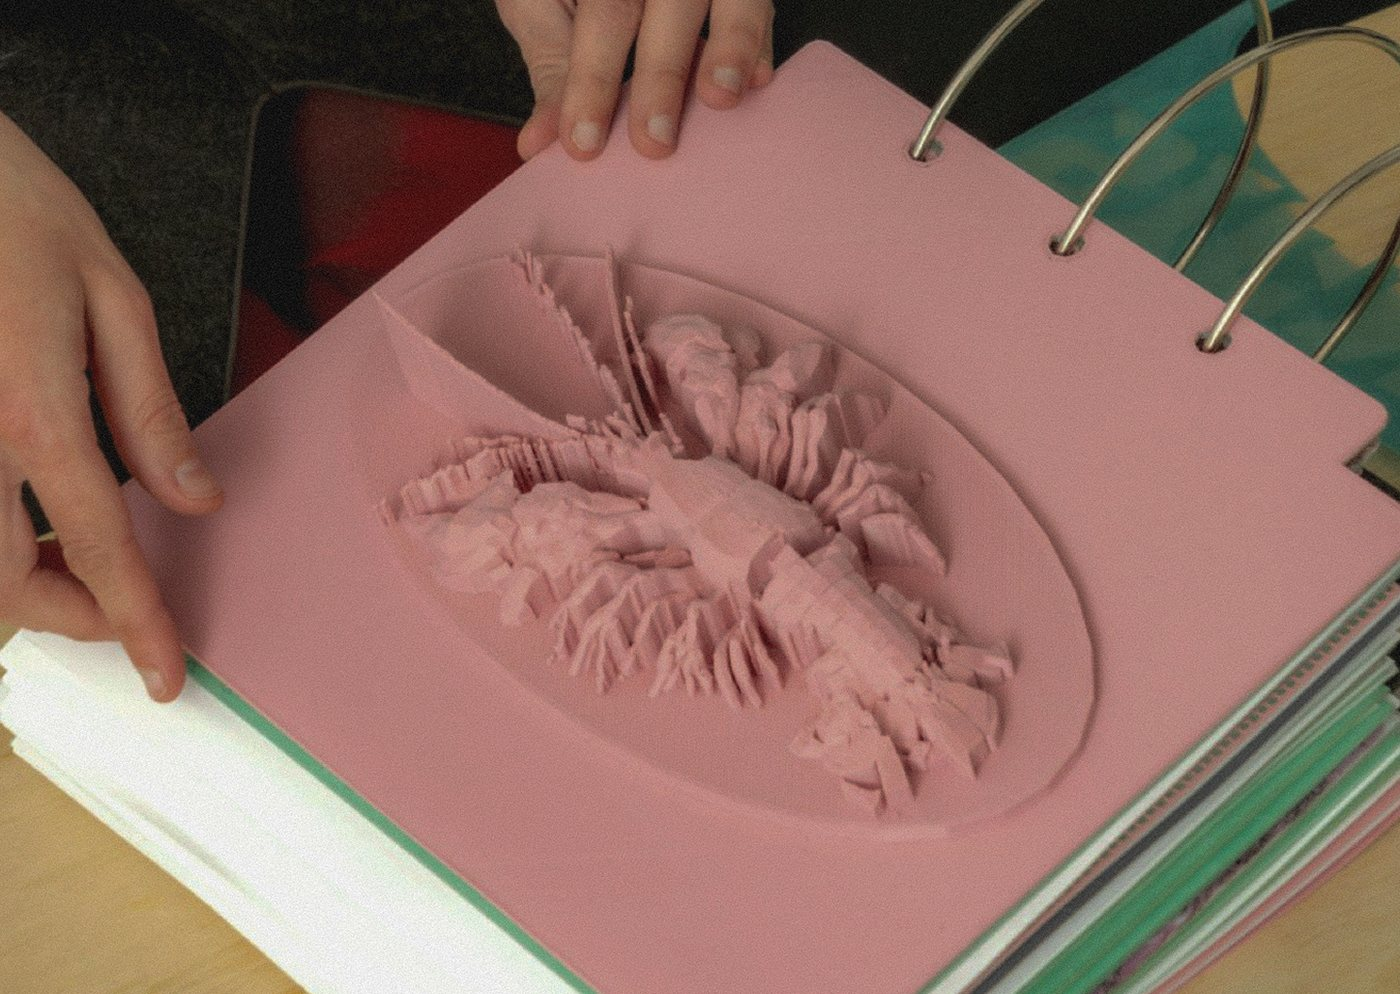
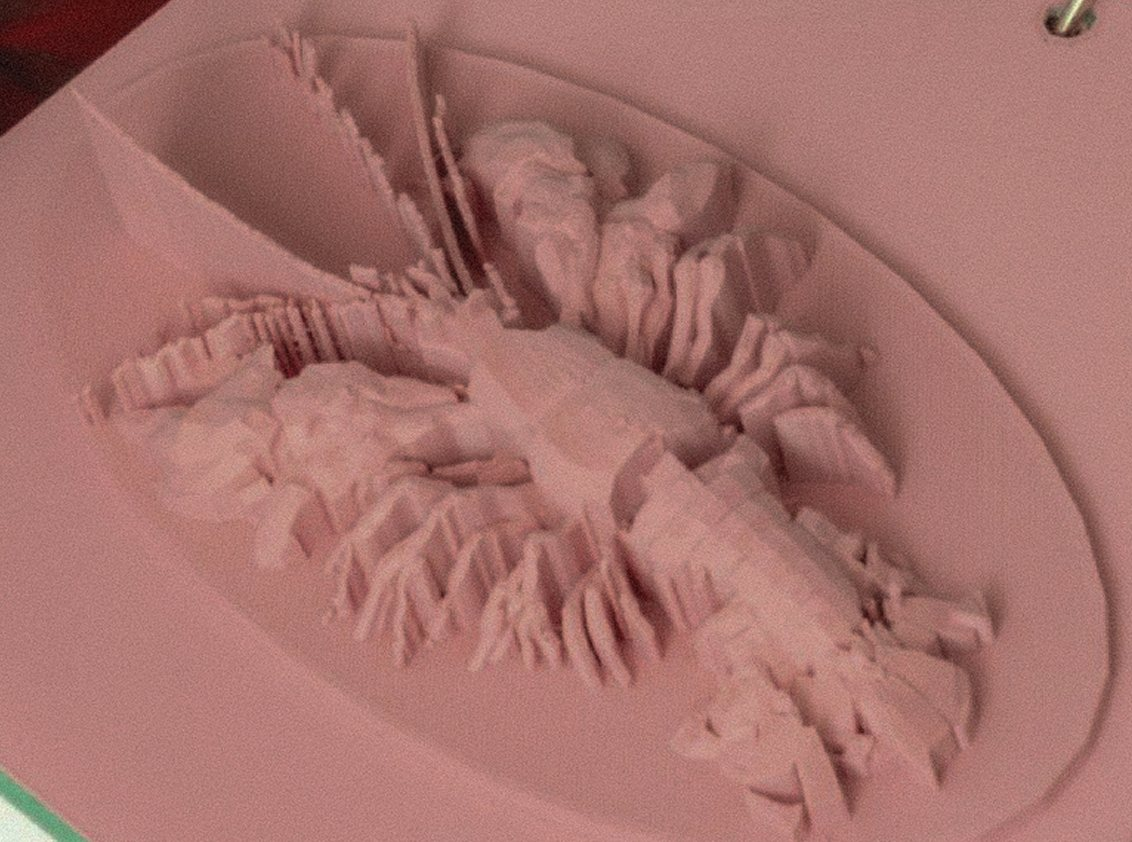
New covers for 04 and 06

diff --git a/index.html b/index.html
@@ -900,7 +900,7 @@
 <svg data-cx="27.611" class="spine anim" viewBox="0 0 56.000 276.8" xmlns="http://www.w3.org/2000/svg" aria-label="spine"><g class="glyphs"></g></svg>
 <svg data-cx="27.611" class="spine pics" viewBox="0 0 56.000 276.8" xmlns="http://www.w3.org/2000/svg" aria-label="spine"><g class="pic" data-seg="0" clip-path="url(#segclip-0)"><rect x="8" y="3.2" width="37" height="36.8" fill="#822D00"/><image href="images/web/01.jpg" x="8" y="3.2" width="37" height="36.8" preserveAspectRatio="xMidYMid slice"/></g><g class="pic" data-seg="1" clip-path="url(#segclip-1)"><rect x="9" y="40" width="37" height="33.6" fill="#F38530"/><image href="images/web/02.jpg" x="9" y="40" width="37" height="33.6" preserveAspectRatio="xMidYMid slice"/></g><g class="pic" data-seg="2" clip-path="url(#segclip-2)"><rect x="11" y="73.6" width="33" height="36.8" fill="#FDF48E"/><image href="images/web/03.jpg" x="11" y="73.6" width="33" height="36.8" preserveAspectRatio="xMidYMid slice"/></g><g class="pic" data-seg="3" clip-path="url(#segclip-3)"><rect x="11" y="110.4" width="32" height="38.4" fill="#D4F724"/><image href="images/web/04.jpg" x="11" y="110.4" width="32" height="38.4" preserveAspectRatio="xMidYMid slice"/></g><g class="pic" data-seg="4" clip-path="url(#segclip-4)"><rect x="9" y="148.8" width="38" height="35.2" fill="#822D00"/><image href="images/web/05.jpg" x="9" y="148.8" width="38" height="35.2" preserveAspectRatio="xMidYMid slice"/></g><g class="pic" data-seg="5" clip-path="url(#segclip-5)"><rect x="5" y="184" width="44" height="32" fill="#F38530"/><image href="images/web/06.jpg" x="5" y="184" width="44" height="32" preserveAspectRatio="xMidYMid slice"/></g><g class="pic" data-seg="6" clip-path="url(#segclip-6)"><rect x="2" y="216" width="52" height="24" fill="#FDF48E"/><image href="images/web/07.jpg" x="2" y="216" width="52" height="24" preserveAspectRatio="xMidYMid slice"/></g><g class="pic" data-seg="7" clip-path="url(#segclip-7)"><rect x="5" y="240" width="46" height="33.6" fill="#D4F724"/><image href="images/web/08.jpg" x="5" y="240" width="46" height="33.6" preserveAspectRatio="xMidYMid slice"/></g></svg>
 
-<section class="sched" aria-label="Calendar view"><div class="sched-head" aria-hidden="true"><div class="t t-schedh"><span class="slab" aria-hidden="true">SAT</span><span class="bloom" aria-hidden="true">SAT</span><span class="tight" aria-hidden="true">SAT</span><span class="ink">SAT</span><span class="core" aria-hidden="true">SAT</span></div><div class="t t-schedh"><span class="slab" aria-hidden="true">SUN</span><span class="bloom" aria-hidden="true">SUN</span><span class="tight" aria-hidden="true">SUN</span><span class="ink">SUN</span><span class="core" aria-hidden="true">SUN</span></div></div><div class="sched-grid"><button class="sd sc" type="button" data-lec="0"><img src="images/lectures/web/calendar-01.jpg" width="1400" height="961" alt="" loading="lazy" decoding="async" class="sc-img"><span class="sc-d">10.10</span><span class="sc-w">Victoria Soyan Peemot</span><span class="sc-t">Horses and Songs: Multispecies Rhythm and Voice in Inner Asia</span></button><button class="sd sc" type="button" data-lec="1"><img src="images/lectures/web/calendar-02.jpg" width="1400" height="961" alt="" loading="lazy" decoding="async" class="sc-img"><span class="sc-d">10.11</span><span class="sc-w">Wantanee Siripattananuntakul</span><span class="sc-t">If There’s No Reply, Is That Silence Still Love?</span></button><button class="sd sc" type="button" data-lec="2"><img src="images/lectures/web/calendar-03.jpg" width="1388" height="1018" alt="" loading="lazy" decoding="async" class="sc-img"><span class="sc-d">10.17</span><span class="sc-w">Terezie Štindlová</span><span class="sc-t">Do We Need Zoos?</span></button><div class="sd"></div><button class="sd sc" type="button" data-lec="3"><img src="images/lectures/web/calendar-04.jpg" width="1400" height="1002" alt="" loading="lazy" decoding="async" class="sc-img"><span class="sc-d">10.24</span><span class="sc-w">Boria Sax <small>(Guest Moderator: Ruoyi Shi)</small></span><span class="sc-t">Stories, Poetry, and Birdsong</span></button><button class="sd sc" type="button" data-lec="4"><img src="images/lectures/web/calendar-05.jpg" width="1356" height="892" alt="" loading="lazy" decoding="async" class="sc-img"><span class="sc-d">10.25</span><span class="sc-w">Robert Zhao Renhui</span><span class="sc-t">Seeing Forest: Encounters, Evidence and Ways of Knowing</span></button><button class="sd sc" type="button" data-lec="5"><img src="images/lectures/web/calendar-06.jpg" width="1400" height="994" alt="" loading="lazy" decoding="async" class="sc-img"><span class="sc-d">10.31</span><span class="sc-w">Oscar Salguero</span><span class="sc-t">The Rhizomatic Archive: Interspecies Library</span></button><div class="sd"></div><button class="sd sc" type="button" data-lec="6"><img src="images/lectures/web/calendar-07.jpg" width="1400" height="972" alt="" loading="lazy" decoding="async" class="sc-img"><span class="sc-d">11.07</span><span class="sc-w">Hsu Che-Yu &amp; Chen Wan-Yin</span><span class="sc-t">Specimen of Suffering</span></button><button class="sd sc" type="button" data-lec="7"><img src="images/lectures/web/calendar-08.jpg" width="1400" height="1017" alt="" loading="lazy" decoding="async" class="sc-img"><span class="sc-d">11.08</span><span class="sc-w">Sha Shuang</span><span class="sc-t">Writing a Cow: From Surveillance Data to Fiction</span></button></div></section>
+<section class="sched" aria-label="Calendar view"><div class="sched-head" aria-hidden="true"><div class="t t-schedh"><span class="slab" aria-hidden="true">SAT</span><span class="bloom" aria-hidden="true">SAT</span><span class="tight" aria-hidden="true">SAT</span><span class="ink">SAT</span><span class="core" aria-hidden="true">SAT</span></div><div class="t t-schedh"><span class="slab" aria-hidden="true">SUN</span><span class="bloom" aria-hidden="true">SUN</span><span class="tight" aria-hidden="true">SUN</span><span class="ink">SUN</span><span class="core" aria-hidden="true">SUN</span></div></div><div class="sched-grid"><button class="sd sc" type="button" data-lec="0"><img src="images/lectures/web/calendar-01.jpg" width="1400" height="961" alt="" loading="lazy" decoding="async" class="sc-img"><span class="sc-d">10.10</span><span class="sc-w">Victoria Soyan Peemot</span><span class="sc-t">Horses and Songs: Multispecies Rhythm and Voice in Inner Asia</span></button><button class="sd sc" type="button" data-lec="1"><img src="images/lectures/web/calendar-02.jpg" width="1400" height="961" alt="" loading="lazy" decoding="async" class="sc-img"><span class="sc-d">10.11</span><span class="sc-w">Wantanee Siripattananuntakul</span><span class="sc-t">If There’s No Reply, Is That Silence Still Love?</span></button><button class="sd sc" type="button" data-lec="2"><img src="images/lectures/web/calendar-03.jpg" width="1388" height="1018" alt="" loading="lazy" decoding="async" class="sc-img"><span class="sc-d">10.17</span><span class="sc-w">Terezie Štindlová</span><span class="sc-t">Do We Need Zoos?</span></button><div class="sd"></div><button class="sd sc" type="button" data-lec="3"><img src="images/lectures/web/calendar-04.jpg" width="1128" height="808" alt="" loading="lazy" decoding="async" class="sc-img"><span class="sc-d">10.24</span><span class="sc-w">Boria Sax <small>(Guest Moderator: Ruoyi Shi)</small></span><span class="sc-t">Stories, Poetry, and Birdsong</span></button><button class="sd sc" type="button" data-lec="4"><img src="images/lectures/web/calendar-05.jpg" width="1356" height="892" alt="" loading="lazy" decoding="async" class="sc-img"><span class="sc-d">10.25</span><span class="sc-w">Robert Zhao Renhui</span><span class="sc-t">Seeing Forest: Encounters, Evidence and Ways of Knowing</span></button><button class="sd sc" type="button" data-lec="5"><img src="images/lectures/web/calendar-06.jpg" width="1132" height="842" alt="" loading="lazy" decoding="async" class="sc-img"><span class="sc-d">10.31</span><span class="sc-w">Oscar Salguero</span><span class="sc-t">The Rhizomatic Archive: Interspecies Library</span></button><div class="sd"></div><button class="sd sc" type="button" data-lec="6"><img src="images/lectures/web/calendar-07.jpg" width="1400" height="972" alt="" loading="lazy" decoding="async" class="sc-img"><span class="sc-d">11.07</span><span class="sc-w">Hsu Che-Yu &amp; Chen Wan-Yin</span><span class="sc-t">Specimen of Suffering</span></button><button class="sd sc" type="button" data-lec="7"><img src="images/lectures/web/calendar-08.jpg" width="1400" height="1017" alt="" loading="lazy" decoding="async" class="sc-img"><span class="sc-d">11.08</span><span class="sc-w">Sha Shuang</span><span class="sc-t">Writing a Cow: From Surveillance Data to Fiction</span></button></div></section>
 
 <div class="lecs">
 <div class="t t-lecno" data-lec="0" style="--nx:0.4931;--ny:0.0775"><p class="slab" aria-hidden="true">01</p><p class="bloom" aria-hidden="true">01</p><p class="tight" aria-hidden="true">01</p><p class="ink">01</p><p class="core" aria-hidden="true">01</p></div>

diff --git a/social-media-poster/poster.html b/social-media-poster/poster.html
@@ -870,7 +870,7 @@
 <svg data-cx="27.611" class="spine anim" viewBox="0 0 56.000 276.8" xmlns="http://www.w3.org/2000/svg" aria-label="spine"><g class="glyphs"></g></svg>
 <svg data-cx="27.611" class="spine pics" viewBox="0 0 56.000 276.8" xmlns="http://www.w3.org/2000/svg" aria-label="spine"><g class="pic" data-seg="0" clip-path="url(#segclip-0)"><rect x="8" y="3.2" width="37" height="36.8" fill="#822D00"/><image href="images/web/01.jpg" x="8" y="3.2" width="37" height="36.8" preserveAspectRatio="xMidYMid slice"/></g><g class="pic" data-seg="1" clip-path="url(#segclip-1)"><rect x="9" y="40" width="37" height="33.6" fill="#F38530"/><image href="images/web/02.jpg" x="9" y="40" width="37" height="33.6" preserveAspectRatio="xMidYMid slice"/></g><g class="pic" data-seg="2" clip-path="url(#segclip-2)"><rect x="11" y="73.6" width="33" height="36.8" fill="#FDF48E"/><image href="images/web/03.jpg" x="11" y="73.6" width="33" height="36.8" preserveAspectRatio="xMidYMid slice"/></g><g class="pic" data-seg="3" clip-path="url(#segclip-3)"><rect x="11" y="110.4" width="32" height="38.4" fill="#D4F724"/><image href="images/web/04.jpg" x="11" y="110.4" width="32" height="38.4" preserveAspectRatio="xMidYMid slice"/></g><g class="pic" data-seg="4" clip-path="url(#segclip-4)"><rect x="9" y="148.8" width="38" height="35.2" fill="#822D00"/><image href="images/web/05.jpg" x="9" y="148.8" width="38" height="35.2" preserveAspectRatio="xMidYMid slice"/></g><g class="pic" data-seg="5" clip-path="url(#segclip-5)"><rect x="5" y="184" width="44" height="32" fill="#F38530"/><image href="images/web/06.jpg" x="5" y="184" width="44" height="32" preserveAspectRatio="xMidYMid slice"/></g><g class="pic" data-seg="6" clip-path="url(#segclip-6)"><rect x="2" y="216" width="52" height="24" fill="#FDF48E"/><image href="images/web/07.jpg" x="2" y="216" width="52" height="24" preserveAspectRatio="xMidYMid slice"/></g><g class="pic" data-seg="7" clip-path="url(#segclip-7)"><rect x="5" y="240" width="46" height="33.6" fill="#D4F724"/><image href="images/web/08.jpg" x="5" y="240" width="46" height="33.6" preserveAspectRatio="xMidYMid slice"/></g></svg>
 
-<section class="sched" aria-label="Calendar view"><div class="sched-head" aria-hidden="true"><div class="t t-schedh"><span class="slab" aria-hidden="true">SAT</span><span class="bloom" aria-hidden="true">SAT</span><span class="tight" aria-hidden="true">SAT</span><span class="ink">SAT</span><span class="core" aria-hidden="true">SAT</span></div><div class="t t-schedh"><span class="slab" aria-hidden="true">SUN</span><span class="bloom" aria-hidden="true">SUN</span><span class="tight" aria-hidden="true">SUN</span><span class="ink">SUN</span><span class="core" aria-hidden="true">SUN</span></div></div><div class="sched-grid"><button class="sd sc" type="button" data-lec="0"><img src="images/lectures/web/calendar-01.jpg" width="1400" height="961" alt="" loading="lazy" decoding="async" class="sc-img"><span class="sc-d">10.10</span><span class="sc-w">Victoria Soyan Peemot</span><span class="sc-t">Horses and Songs: Multispecies Rhythm and Voice in Inner Asia</span></button><button class="sd sc" type="button" data-lec="1"><img src="images/lectures/web/calendar-02.jpg" width="1400" height="961" alt="" loading="lazy" decoding="async" class="sc-img"><span class="sc-d">10.11</span><span class="sc-w">Wantanee Siripattananuntakul</span><span class="sc-t">If There’s No Reply, Is That Silence Still Love?</span></button><button class="sd sc" type="button" data-lec="2"><img src="images/lectures/web/calendar-03.jpg" width="1388" height="1018" alt="" loading="lazy" decoding="async" class="sc-img"><span class="sc-d">10.17</span><span class="sc-w">Terezie Štindlová</span><span class="sc-t">Do We Need Zoos?</span></button><div class="sd"></div><button class="sd sc" type="button" data-lec="3"><img src="images/lectures/web/calendar-04.jpg" width="1400" height="1002" alt="" loading="lazy" decoding="async" class="sc-img"><span class="sc-d">10.24</span><span class="sc-w">Boria Sax <small>(Guest Moderator: Ruoyi Shi)</small></span><span class="sc-t">Stories, Poetry, and Birdsong</span></button><button class="sd sc" type="button" data-lec="4"><img src="images/lectures/web/calendar-05.jpg" width="1356" height="892" alt="" loading="lazy" decoding="async" class="sc-img"><span class="sc-d">10.25</span><span class="sc-w">Robert Zhao Renhui</span><span class="sc-t">Seeing Forest: Encounters, Evidence and Ways of Knowing</span></button><button class="sd sc" type="button" data-lec="5"><img src="images/lectures/web/calendar-06.jpg" width="1400" height="994" alt="" loading="lazy" decoding="async" class="sc-img"><span class="sc-d">10.31</span><span class="sc-w">Oscar Salguero</span><span class="sc-t">The Rhizomatic Archive: Interspecies Library</span></button><div class="sd"></div><button class="sd sc" type="button" data-lec="6"><img src="images/lectures/web/calendar-07.jpg" width="1400" height="972" alt="" loading="lazy" decoding="async" class="sc-img"><span class="sc-d">11.07</span><span class="sc-w">Hsu Che-Yu &amp; Chen Wan-Yin</span><span class="sc-t">Specimen of Suffering</span></button><button class="sd sc" type="button" data-lec="7"><img src="images/lectures/web/calendar-08.jpg" width="1400" height="1017" alt="" loading="lazy" decoding="async" class="sc-img"><span class="sc-d">11.08</span><span class="sc-w">Sha Shuang</span><span class="sc-t">Writing a Cow: From Surveillance Data to Fiction</span></button></div></section>
+<section class="sched" aria-label="Calendar view"><div class="sched-head" aria-hidden="true"><div class="t t-schedh"><span class="slab" aria-hidden="true">SAT</span><span class="bloom" aria-hidden="true">SAT</span><span class="tight" aria-hidden="true">SAT</span><span class="ink">SAT</span><span class="core" aria-hidden="true">SAT</span></div><div class="t t-schedh"><span class="slab" aria-hidden="true">SUN</span><span class="bloom" aria-hidden="true">SUN</span><span class="tight" aria-hidden="true">SUN</span><span class="ink">SUN</span><span class="core" aria-hidden="true">SUN</span></div></div><div class="sched-grid"><button class="sd sc" type="button" data-lec="0"><img src="images/lectures/web/calendar-01.jpg" width="1400" height="961" alt="" loading="lazy" decoding="async" class="sc-img"><span class="sc-d">10.10</span><span class="sc-w">Victoria Soyan Peemot</span><span class="sc-t">Horses and Songs: Multispecies Rhythm and Voice in Inner Asia</span></button><button class="sd sc" type="button" data-lec="1"><img src="images/lectures/web/calendar-02.jpg" width="1400" height="961" alt="" loading="lazy" decoding="async" class="sc-img"><span class="sc-d">10.11</span><span class="sc-w">Wantanee Siripattananuntakul</span><span class="sc-t">If There’s No Reply, Is That Silence Still Love?</span></button><button class="sd sc" type="button" data-lec="2"><img src="images/lectures/web/calendar-03.jpg" width="1388" height="1018" alt="" loading="lazy" decoding="async" class="sc-img"><span class="sc-d">10.17</span><span class="sc-w">Terezie Štindlová</span><span class="sc-t">Do We Need Zoos?</span></button><div class="sd"></div><button class="sd sc" type="button" data-lec="3"><img src="images/lectures/web/calendar-04.jpg" width="1128" height="808" alt="" loading="lazy" decoding="async" class="sc-img"><span class="sc-d">10.24</span><span class="sc-w">Boria Sax <small>(Guest Moderator: Ruoyi Shi)</small></span><span class="sc-t">Stories, Poetry, and Birdsong</span></button><button class="sd sc" type="button" data-lec="4"><img src="images/lectures/web/calendar-05.jpg" width="1356" height="892" alt="" loading="lazy" decoding="async" class="sc-img"><span class="sc-d">10.25</span><span class="sc-w">Robert Zhao Renhui</span><span class="sc-t">Seeing Forest: Encounters, Evidence and Ways of Knowing</span></button><button class="sd sc" type="button" data-lec="5"><img src="images/lectures/web/calendar-06.jpg" width="1132" height="842" alt="" loading="lazy" decoding="async" class="sc-img"><span class="sc-d">10.31</span><span class="sc-w">Oscar Salguero</span><span class="sc-t">The Rhizomatic Archive: Interspecies Library</span></button><div class="sd"></div><button class="sd sc" type="button" data-lec="6"><img src="images/lectures/web/calendar-07.jpg" width="1400" height="972" alt="" loading="lazy" decoding="async" class="sc-img"><span class="sc-d">11.07</span><span class="sc-w">Hsu Che-Yu &amp; Chen Wan-Yin</span><span class="sc-t">Specimen of Suffering</span></button><button class="sd sc" type="button" data-lec="7"><img src="images/lectures/web/calendar-08.jpg" width="1400" height="1017" alt="" loading="lazy" decoding="async" class="sc-img"><span class="sc-d">11.08</span><span class="sc-w">Sha Shuang</span><span class="sc-t">Writing a Cow: From Surveillance Data to Fiction</span></button></div></section>
 
 <div class="lecs">
 <div class="t t-lecno" data-lec="0" style="--nx:0.4931;--ny:0.0775"><p class="slab" aria-hidden="true">01</p><p class="bloom" aria-hidden="true">01</p><p class="tight" aria-hidden="true">01</p><p class="ink">01</p><p class="core" aria-hidden="true">01</p></div>
